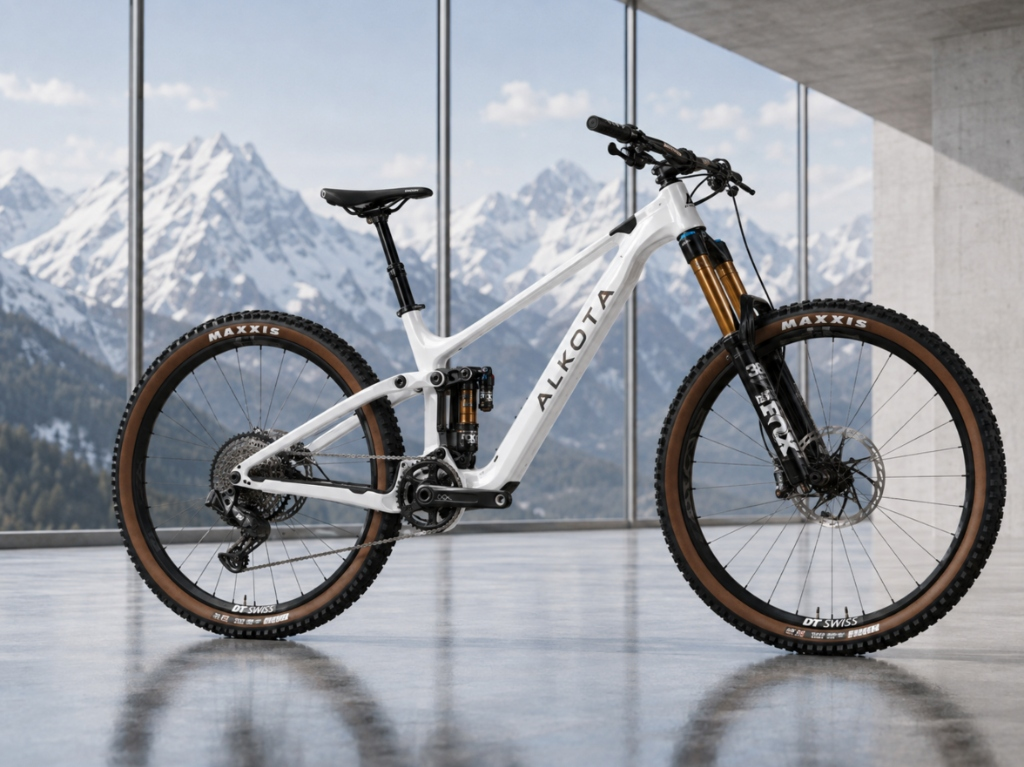
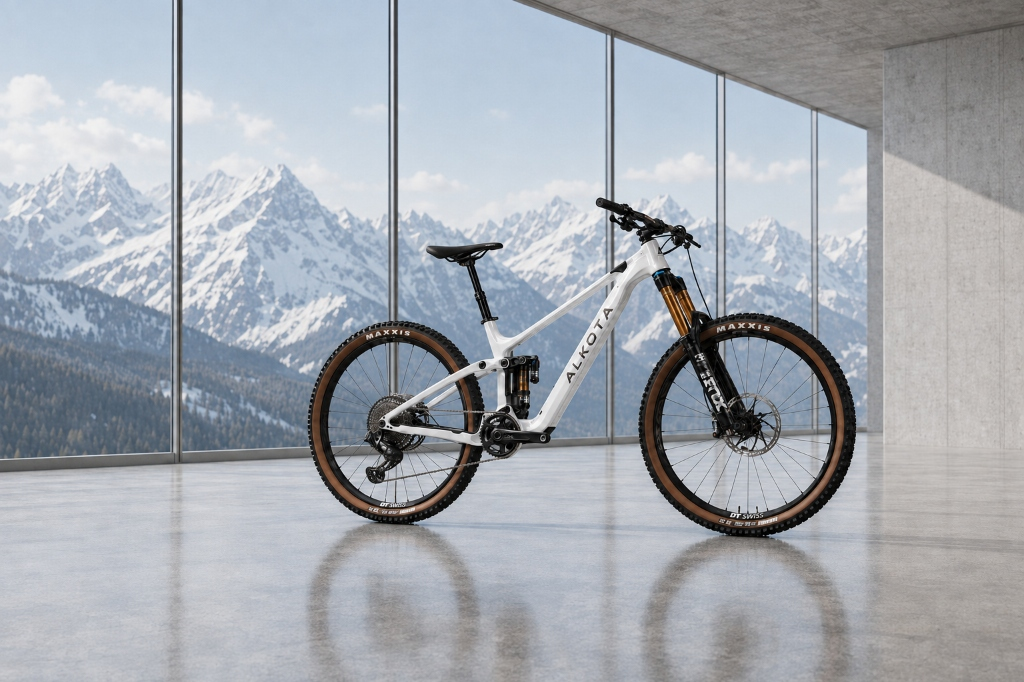
feat(hero): update homepage hero background to new Glacier White alpine showroom image

diff --git a/src/components/sections/HeroFullBleed.tsx b/src/components/sections/HeroFullBleed.tsx
@@ -11,18 +11,18 @@ export default function HeroFullBleed() {
   return (
     <section className="relative w-full min-h-[92vh] md:min-h-screen bg-alkota-carbon text-alkota-white flex flex-col justify-between pt-28 pb-10 px-4 sm:px-6 lg:px-8 overflow-hidden">
       {/* Photographic Alpine Showroom Background featuring canonical Project 01 Glacier White */}
-      <div className="absolute inset-0 z-0 opacity-40 md:opacity-55 transition-opacity duration-700">
+      <div className="absolute inset-0 z-0 opacity-65 md:opacity-85 transition-opacity duration-700">
         <Image
           src={brandAssets.project01WhiteHero}
           alt="ALKOTA Project 01 Glacier White full-suspension mountain bike with tan-wall Maxxis tyres in alpine showroom"
           fill
           priority
           sizes="100vw"
-          className="object-cover object-center md:object-right scale-[1.01] transition-transform duration-1000 ease-out"
+          className="object-cover object-center scale-[1.01] transition-transform duration-1000 ease-out"
         />
         {/* Gradients for typography legibility and seamless background blend */}
-        <div className="absolute inset-0 bg-gradient-to-r from-alkota-carbon via-alkota-carbon/80 to-transparent w-full md:w-3/4" />
-        <div className="absolute inset-0 bg-gradient-to-t from-alkota-carbon via-transparent to-alkota-carbon/60" />
+        <div className="absolute inset-0 bg-gradient-to-r from-alkota-carbon via-alkota-carbon/90 to-alkota-carbon/30" />
+        <div className="absolute inset-0 bg-gradient-to-t from-alkota-carbon via-transparent to-alkota-carbon/70" />
       </div>
 
       {/* Top Status Technical Annotation Bar */}
